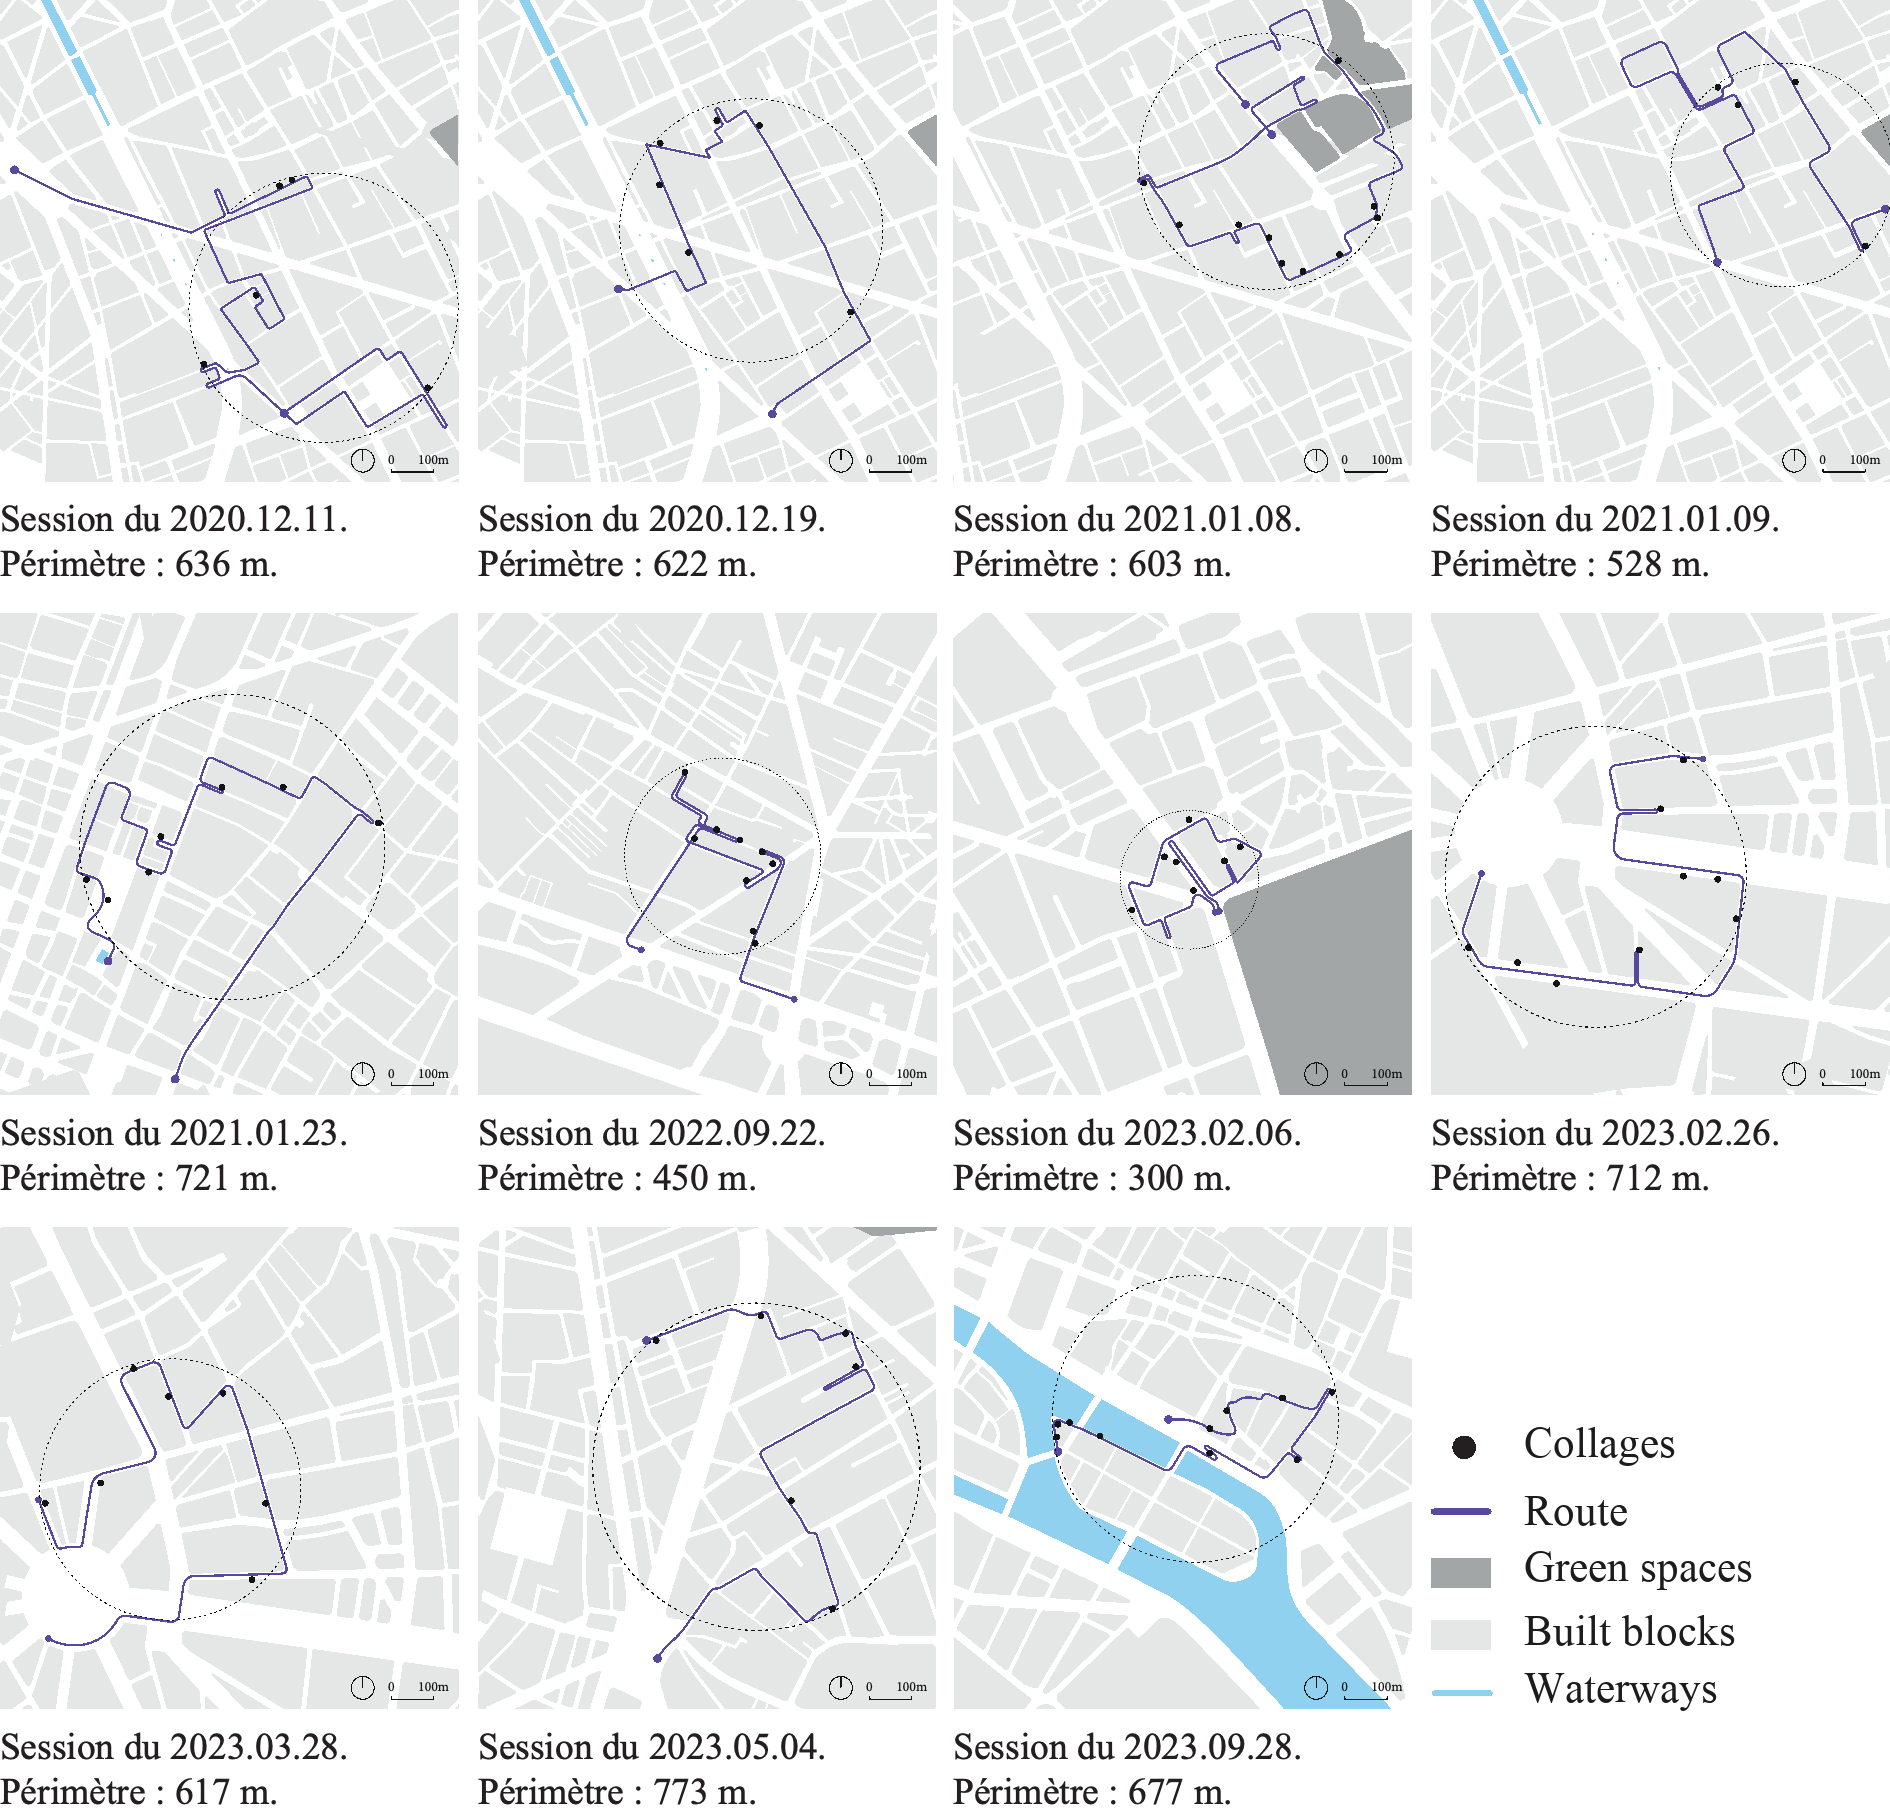
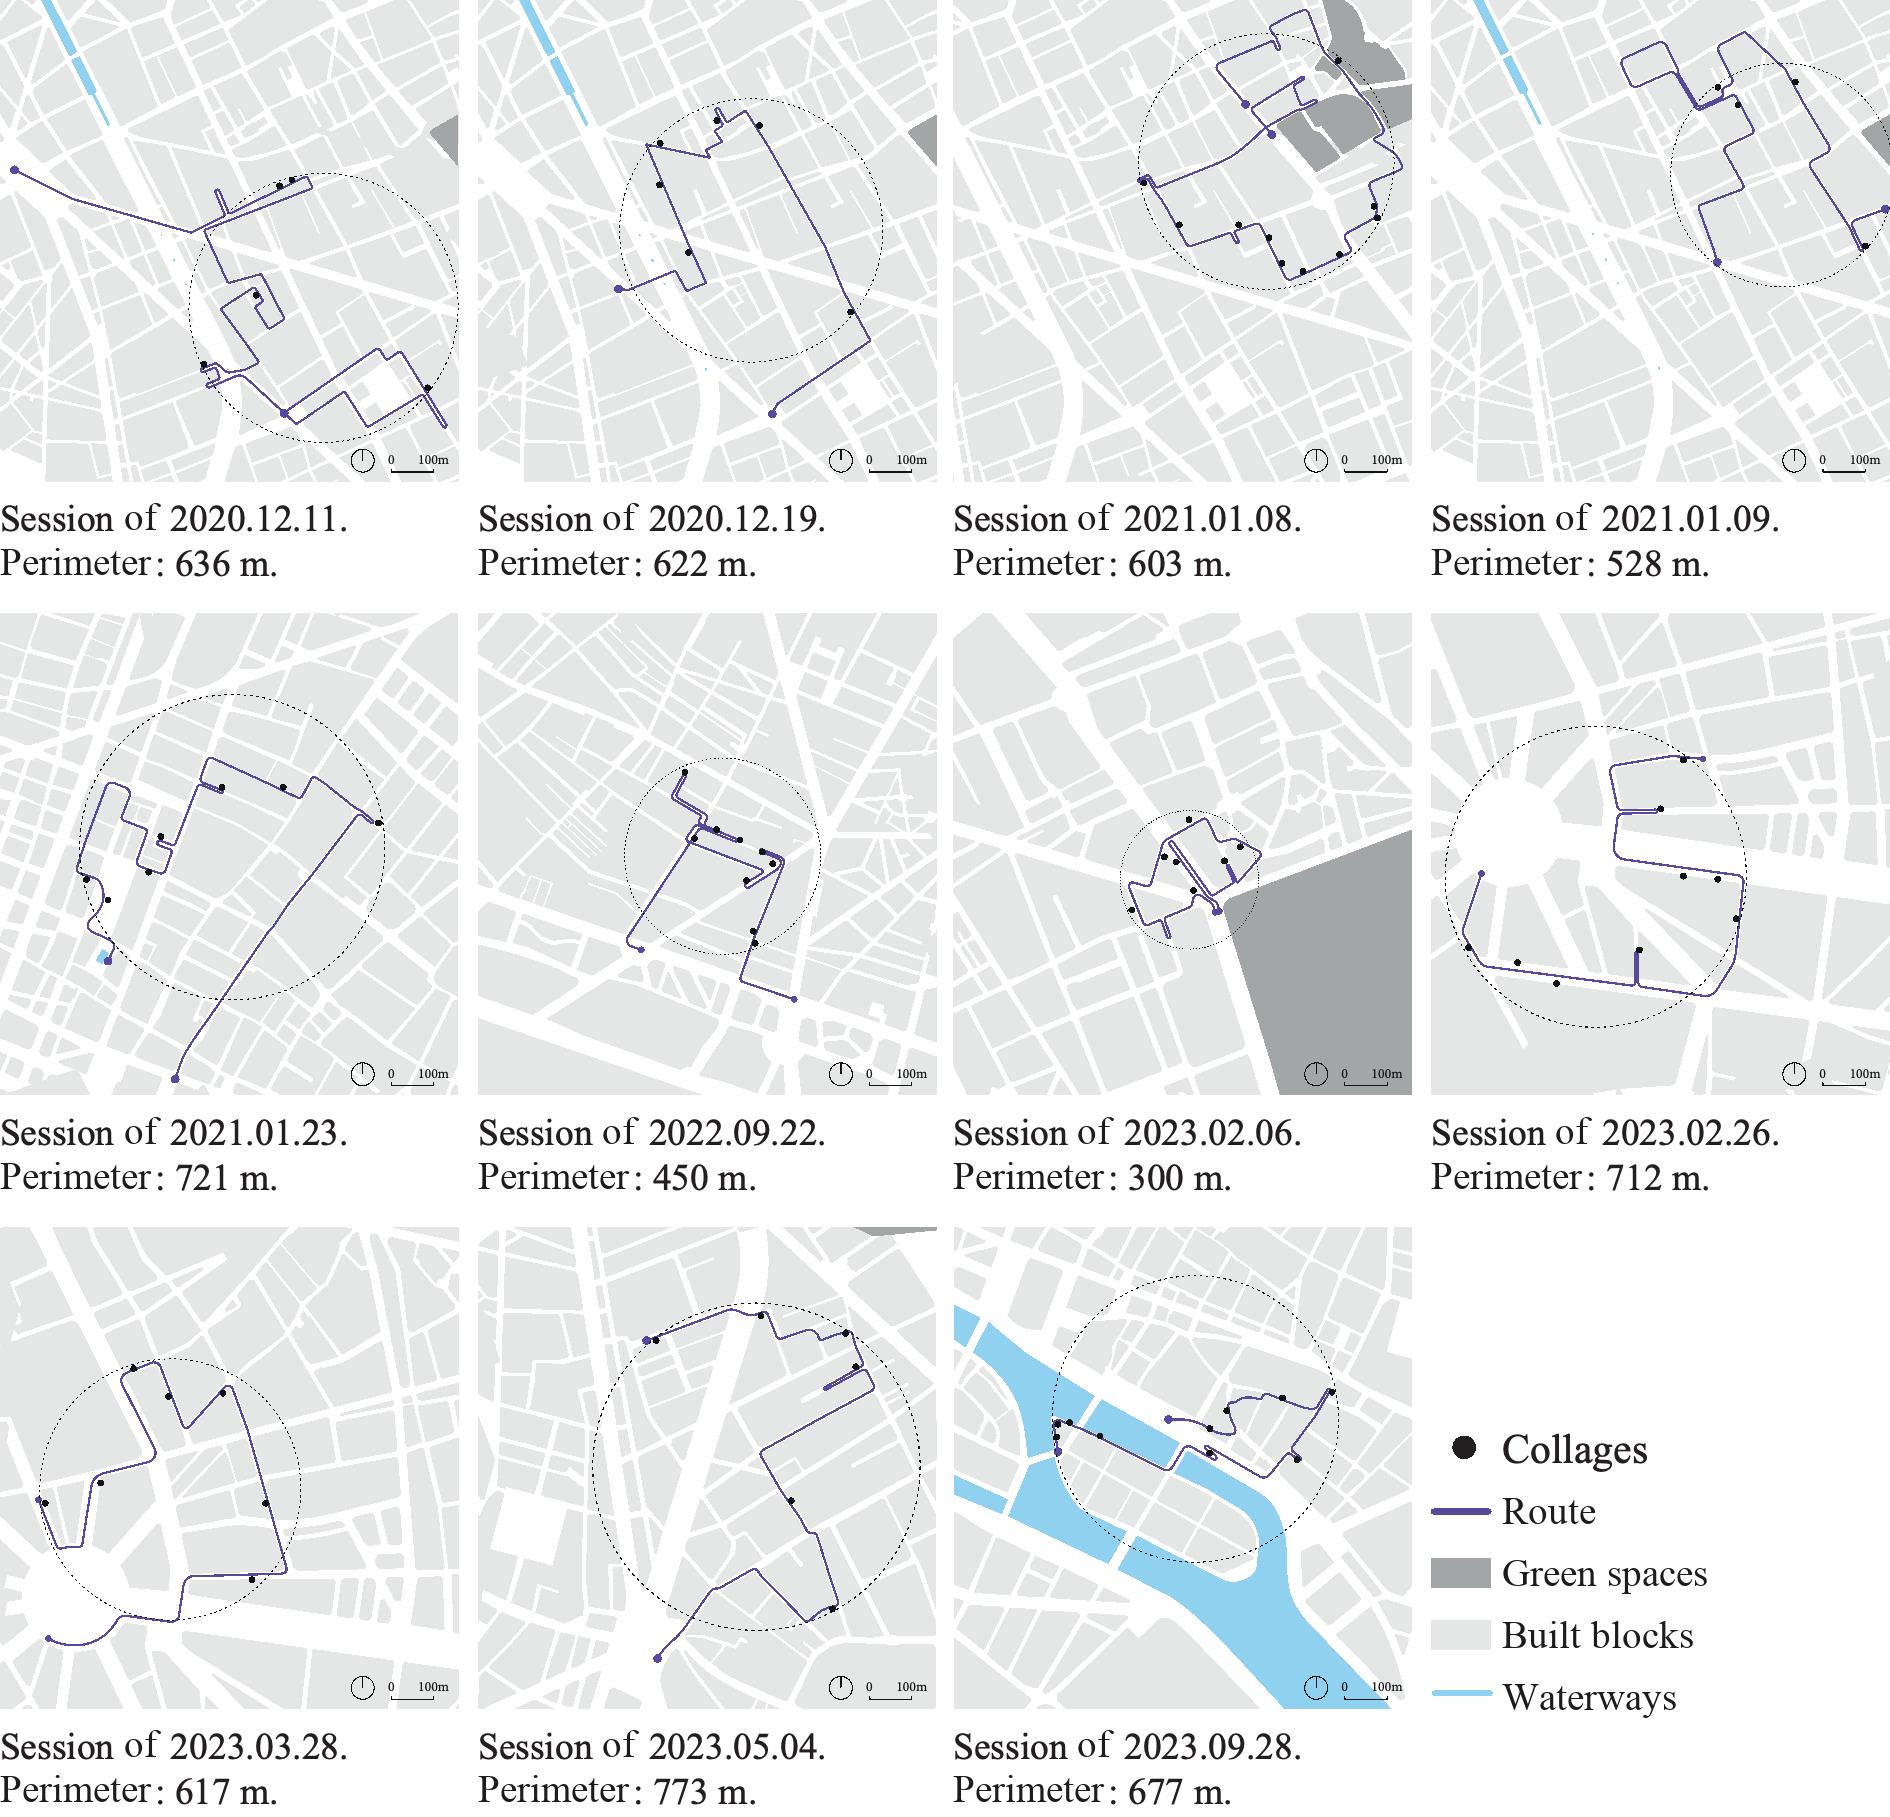
Move defence photo back to thesis tab; translate perimetre session labels to EN

diff --git a/index.html b/index.html
@@ -42,7 +42,7 @@
 }
 </script>
 <script>
-  var BUILD = 55;
+  var BUILD = 56;
   console.log('%cDr Alexandra Mallah — site v' + BUILD, 'color:#8a6d3b;font-weight:bold');
   (function(){
     try{
@@ -155,12 +155,9 @@
     transition:transform .55s cubic-bezier(.2,.6,.2,1);-webkit-user-drag:none}
   .schema:hover img{transform:scale(1.045)}
   .schema.paper img{border:1px solid #fff;border-radius:8px;background:#fff;padding:9px;box-sizing:border-box}
-  .home-grid{display:flex;gap:44px;align-items:flex-start;position:relative;z-index:1}
-  .home-grid .home-inner{flex:1;min-width:0;max-width:none}
-  .home-photo{flex:0 0 250px;margin:64px 0 0;text-align:center}
-  .home-photo img{width:100%;height:auto;border-radius:14px;display:block;cursor:zoom-in;box-shadow:0 14px 38px rgba(61,52,42,.20);-webkit-user-drag:none}
-  .home-photo figcaption{margin-top:9px;font-size:11.5px;color:var(--ink-soft);font-family:var(--sans);letter-spacing:.02em}
-  @media(max-width:760px){.home-grid{flex-direction:column;gap:26px}.home-photo{flex:0 0 auto;max-width:300px;margin:8px auto 0}}
+  .thesis-photo{margin:30px auto 0;max-width:560px;text-align:center}
+  .thesis-photo img{width:100%;height:auto;border-radius:12px;display:block;cursor:zoom-in;box-shadow:0 12px 34px rgba(61,52,42,.16);-webkit-user-drag:none}
+  .thesis-photo figcaption{margin-top:10px;font-size:12.5px;color:var(--ink-soft);font-family:var(--sans);letter-spacing:.02em}
   .docs-jump{display:inline-flex;align-items:center;gap:7px;margin-top:22px;padding:11px 22px;border:1px solid var(--gold-soft);border-radius:30px;color:var(--gold);font-family:var(--sans);font-size:14px;letter-spacing:.02em;cursor:pointer;background:transparent;transition:background .25s,color .25s,border-color .25s}
   .docs-jump:hover{background:var(--gold);color:#fff;border-color:var(--gold)}
   .schema figcaption{padding:8px 2px 2px;font-size:13.5px;color:var(--ink);font-family:var(--serif)}
@@ -286,7 +283,6 @@
 <section class="view active" id="view-home">
   <div class="home-blob" aria-hidden="true"></div>
   <div class="wrap">
-    <div class="home-grid">
     <div class="home-inner">
       <p class="eyebrow"><span class="en">Geographer & architect · Postdoctoral researcher</span><span class="fr">Géographe & architecte · Postdoctorante</span></p>
       <h1><span class="en">Gender, memory<br>and urban space.</span><span class="fr">Genre, mémoire<br>et espace urbain.</span></h1>
@@ -317,11 +313,6 @@
         <a onclick="showView('research')"><span class="en">Explore my research →</span><span class="fr">Découvrir mes recherches →</span></a>
         <a onclick="showView('publications')">Publications →</a>
       </div>
-    </div>
-    <figure class="home-photo">
-      <img src="images/soutenance.jpg?v=52" loading="lazy" draggable="false" oncontextmenu="return false" alt="Alexandra Mallah lors de sa soutenance de thèse">
-      <figcaption><span class="en">PhD defence · EHESS, 2025</span><span class="fr">Soutenance de thèse · EHESS, 2025</span></figcaption>
-    </figure>
     </div>
   </div>
 </section>
@@ -372,6 +363,10 @@
           <span class="fr">Quatre principaux résultats émergent de cette recherche. Premièrement, la visibilité ne se réduit pas à une propriété intrinsèque d'un signe : elle dépend d'un réseau de facteurs spatiaux (localisation, densité, co-présence), symboliques (charge mémorielle des lieux), graphiques (style, lisibilité), temporels (répétition, effacement), et sociaux (fréquentation, interactions). Deuxièmement, les mémoires féminines et féministes à Paris se déploient de façon fragmentée sur le territoire. Ces deux résultats en révèlent un troisième : les modalités d'inscription de la mémoire féminine à Paris contribuent à rejouer, voire à reconduire, des logiques d'inégalités de genre. À ce titre, la thèse montre que la mémoire des femmes et des minorités de genre reste une mémoire <em>dans</em> la ville, mais peine encore à devenir une mémoire <em>de</em> la ville. Enfin, malgré les limites que nous mettons en évidence quant à la visibilité des écritures mémorielles féminines et féministes, ce travail révèle l'émergence de pratiques mémorielles féministes contestataires qui subvertissent les formes classiques de commémoration. En valorisant d'autres formes de mise en mémoire, elles gagnent à être envisagées sous le terme de <em>matrimoine critique</em>.</span>
         </p>
       </div>
+      <figure class="thesis-photo">
+        <img src="images/soutenance.jpg?v=52" loading="lazy" draggable="false" oncontextmenu="return false" alt="Alexandra Mallah lors de sa soutenance de thèse">
+        <figcaption><span class="en">PhD defence · EHESS, 14 November 2025</span><span class="fr">Soutenance de thèse · EHESS, 14 novembre 2025</span></figcaption>
+      </figure>
       <div style="text-align:center">
         <a class="docs-jump" onclick="goDocs()" role="button" tabindex="0"><span class="en">See the thesis figures &amp; maps</span><span class="fr">Voir les figures &amp; cartes de la thèse</span> <span aria-hidden="true">→</span></a>
       </div>
@@ -400,7 +395,7 @@
               <figure class="schema paper"><img class="fr" src="images/carte-feminicides.png?v=50" loading="lazy" draggable="false" alt="Carte de la géographie des collages contre les féminicides à Paris"><img class="en" src="images/carte-feminicides-en.png?v=50" loading="lazy" draggable="false" alt="Map of the geography of anti-femicide collages in Paris"><figcaption><span class="en">Geography of anti-femicide collages, 2019–2024 · Paris</span><span class="fr">Géographie des collages contre les féminicides, de 2019 à 2024, à Paris</span><span class="credit">© Alexandra Mallah, 2025 · <span class="en">Source: A. Mallah</span><span class="fr">Source : A. Mallah</span></span></figcaption></figure>
               <figure class="schema paper"><img class="fr" src="images/carte-visibilite.png?v=52" loading="lazy" draggable="false" alt="Carte du niveau de visibilité des collages selon leur rue d'implantation"><img class="en" src="images/carte-visibilite-en.png?v=52" loading="lazy" draggable="false" alt="Map of collage visibility by street, Paris"><figcaption><span class="en">Visibility of collages by street where posted · Paris</span><span class="fr">Niveau de visibilité des collages selon leur rue d'implantation, à Paris</span><span class="credit">© Alexandra Mallah, 2025 · <span class="en">Source: APUR &amp; A. Mallah</span><span class="fr">Source : APUR &amp; A. Mallah</span></span></figcaption></figure>
               <figure class="schema paper"><img class="fr" src="images/carte-syntheses.png?v=51" loading="lazy" draggable="false" alt="Synthèse des géographies des mémoires féminines et féministes à Paris"><img class="en" src="images/carte-syntheses-en.png?v=51" loading="lazy" draggable="false" alt="Synthesis map of women's and feminist memory geographies in Paris"><figcaption><span class="en">Synthesis of women's and feminist memory geographies · Paris</span><span class="fr">Synthèse des géographies des mémoires féminines et féministes, à Paris</span><span class="credit">© Alexandra Mallah, 2025 · <span class="en">Source: Open Data Paris &amp; A. Mallah</span><span class="fr">Source : Open Data Paris &amp; A. Mallah</span></span></figcaption></figure>
-              <figure class="schema paper"><img class="fr" src="images/carte-perimetre.png?v=50" loading="lazy" draggable="false" alt="Identification du périmètre englobant les collages produits lors d'une session"><img class="en" src="images/carte-perimetre-en.png?v=50" loading="lazy" draggable="false" alt="Identifying the perimeter enclosing the collages of a single session"><figcaption><span class="en">Perimeter enclosing the collages of a single session</span><span class="fr">Identification du périmètre englobant les collages d'une même session</span><span class="credit">© Alexandra Mallah, 2025 · <span class="en">Source: A. Mallah</span><span class="fr">Source : A. Mallah</span></span></figcaption></figure>
+              <figure class="schema paper"><img class="fr" src="images/carte-perimetre.png?v=50" loading="lazy" draggable="false" alt="Identification du périmètre englobant les collages produits lors d'une session"><img class="en" src="images/carte-perimetre-en.png?v=56" loading="lazy" draggable="false" alt="Identifying the perimeter enclosing the collages of a single session"><figcaption><span class="en">Perimeter enclosing the collages of a single session</span><span class="fr">Identification du périmètre englobant les collages d'une même session</span><span class="credit">© Alexandra Mallah, 2025 · <span class="en">Source: A. Mallah</span><span class="fr">Source : A. Mallah</span></span></figcaption></figure>
             </div>
           </div>
           <div class="doc-col">
@@ -670,7 +665,7 @@
 </section>
 
 <footer>© 2026 Alexandra Mallah</footer>
-<div class="ver" id="ver">v55</div>
+<div class="ver" id="ver">v56</div>
 
 <div class="lightbox" id="lightbox" oncontextmenu="return false"><span class="lb-close" aria-hidden="true">×</span><span class="lb-nav lb-prev" id="lb-prev" role="button" aria-label="Image précédente">‹</span><span class="lb-nav lb-next" id="lb-next" role="button" aria-label="Image suivante">›</span><figure class="lb-fig"><img id="lightbox-img" src="" alt="" draggable="false"><figcaption class="lb-cap" id="lightbox-cap"></figcaption></figure></div>
 